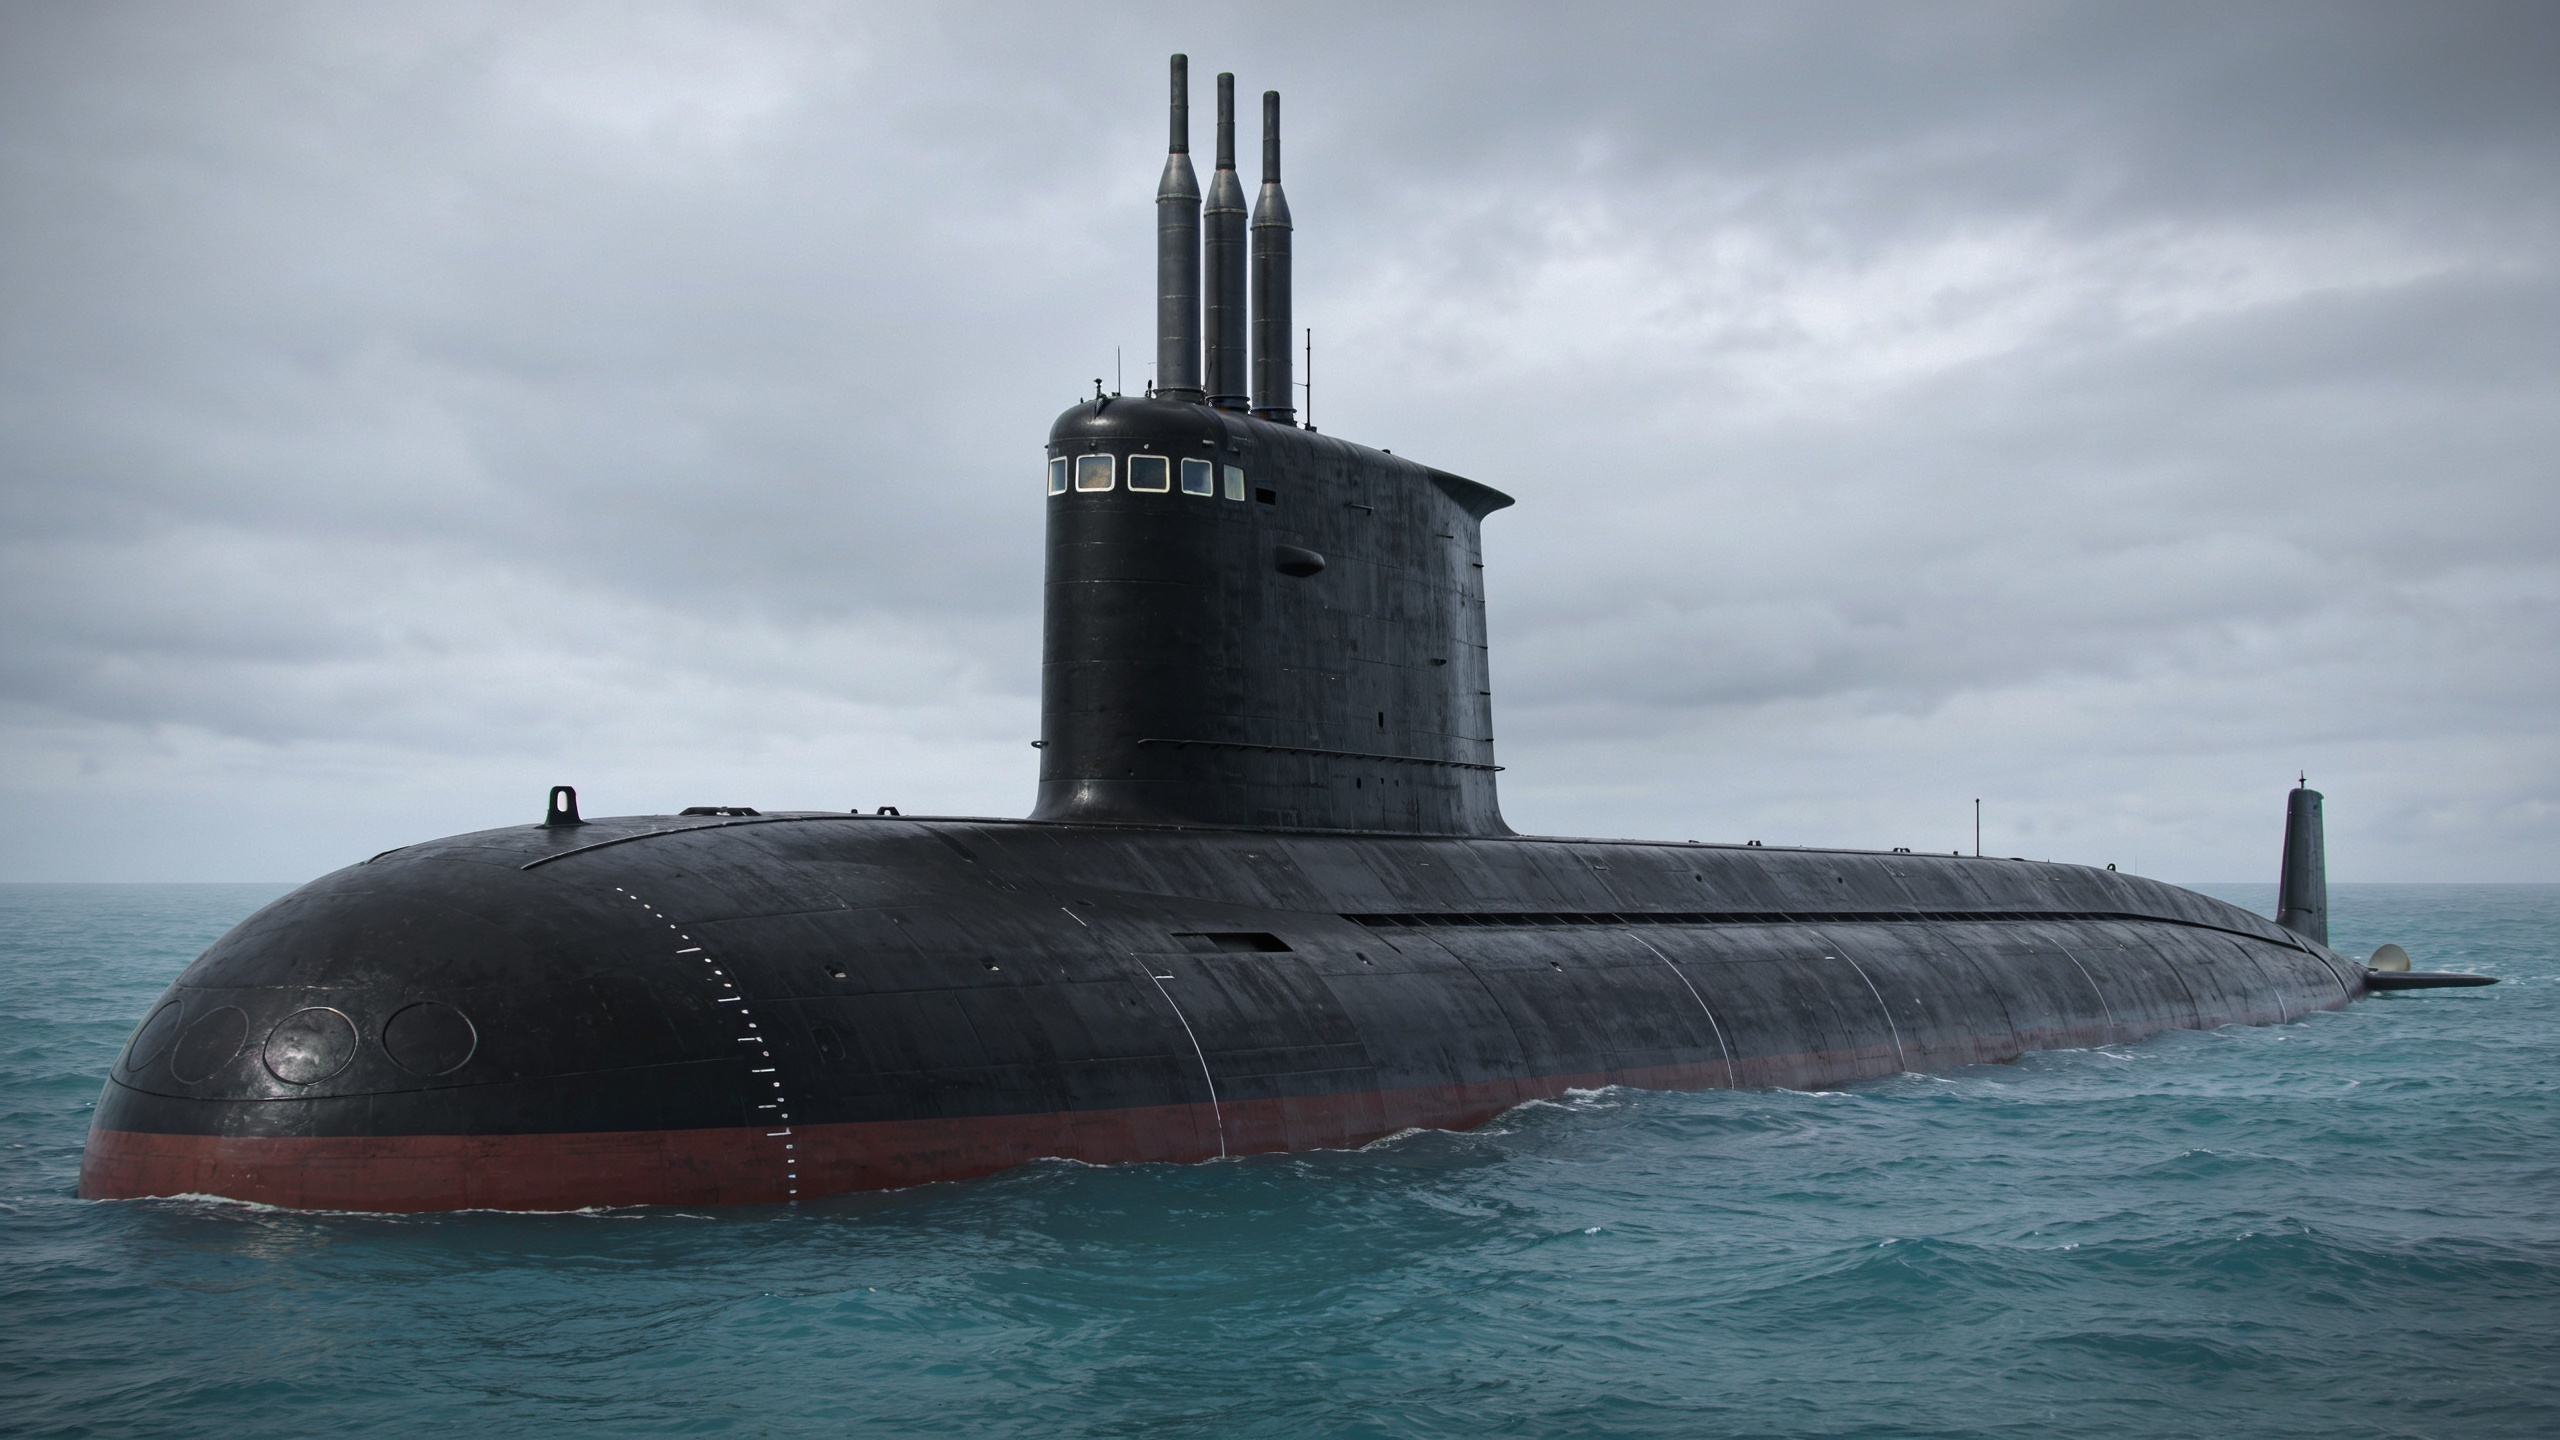
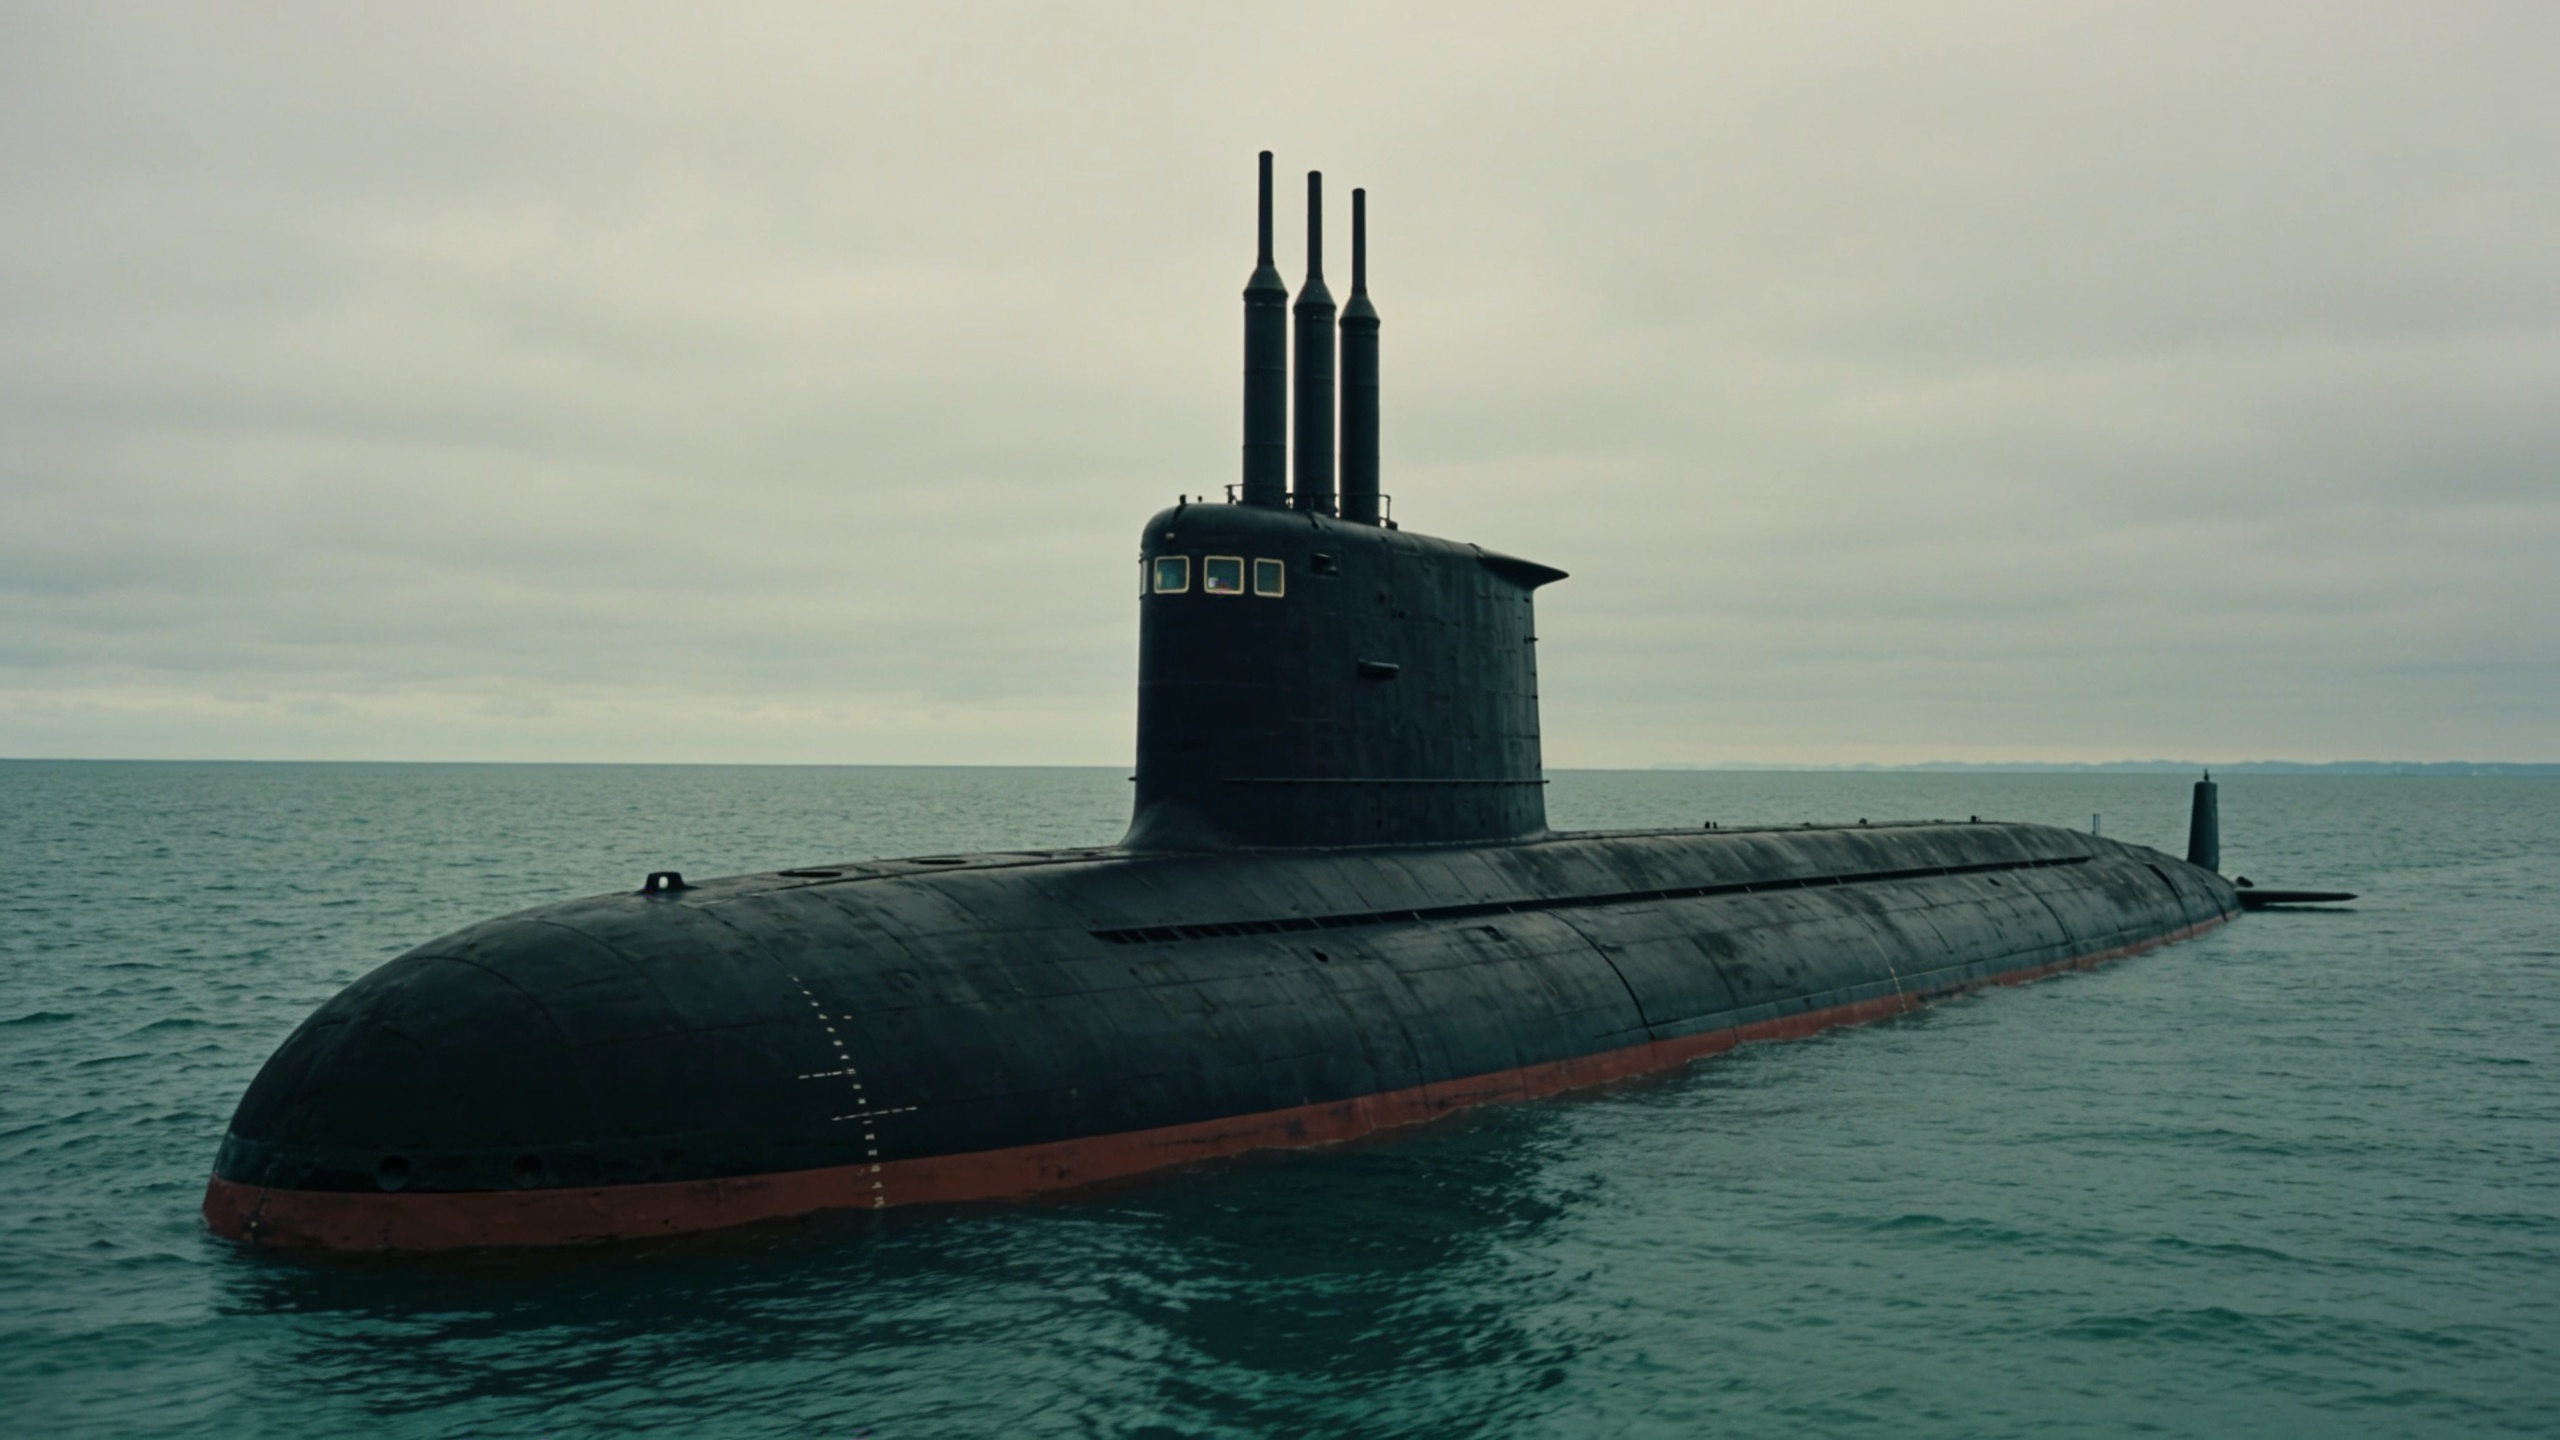
probe: lock por referencia-imagen (H1 escena / H2 multi-objeto) — COMPLETO
Probe exploratorio aislado (lab/probe_lock_imageref.py). NO toca m03/fase2a/fase1_5 ni ningún
módulo de prod; único acople = auth de fal (config.api). Ahora self-contained: genera AMBAS anclas
por t2i (sub + reactor), sin subir archivos externos (handoff v2, PASO 0-bis).

6 imágenes en lab/outputs/probe_lock_imageref/ + results.json (por imagen: id, endpoint, prompt,
image_urls_in, url_out, seed):
- PASO0.png      t2i  submarino (canon v2), seed 220231867 → url_sub_ancla
- PASO0bis.png   t2i  reactor (ficha, sin VM-A), seed 161532034 → url_reactor_ancla
- H1_edit1.png   edit reactor en lecho marino ártico   (ref=reactor)
- H1_edit2.png   edit reactor izado por grúa sobre barcaza (ref=reactor)
- H1_edit3.png   edit reactor oxidado en desguace nevado (ref=reactor)
- H2_multi.png   edit cutaway sub+reactor              (refs=[sub, reactor])

Lecturas de CC (Omar+Claude-chat juzgan mirando; esto es registro, no veredicto de diseño):
- §4 /edit availability: endpoint fal-ai/bytedance/seedream/v4.5/edit devolvió 200 en las 4 edits. OK.
- H1: gestalt del reactor FUERTEMENTE preservada en las 3 escenas — misma silueta, proporción H:D,
  domo, plating remachado, volante + gauge, pipework horizontal; solo cambian escena/luz/oxidación.
  Nota: edit2 (pedía "sellado dentro de un caparazón") mantuvo el vaso VISIBLE — el lock por ref
  resistió una instrucción que ocultaría el objeto (dato de diseño).
[…]

diff --git a/lab/probe_lock_imageref.py b/lab/probe_lock_imageref.py
@@ -147,6 +147,14 @@ P_SUB = ("An extreme wide shot of a Soviet Hotel-class ballistic missile submari
          "Cold overcast daylight, desaturated steel and teal sea, dark documentary, photorealistic, "
          "no text anywhere, 16:9.")
 
+P_REACTOR = ("A wide shot of a large vertical cylindrical steel pressurized-water naval reactor vessel, "
+             "tall — its height roughly twice its diameter — shallow domed top and rounded base, bare "
+             "unmarked riveted steel plating, insulated pipework wrapped horizontally around the body, "
+             "one manual valve wheel, one small analog pressure gauge with a plain unmarked white dial "
+             "face, no digital screens. Radioactive, scorched, streaked with rust, resting on a heavy "
+             "railway flatcar inside a cavernous Soviet shipyard, 1964, harsh overhead lights. "
+             "Desaturated steel, dark documentary, photorealistic, no signage, no text anywhere, 16:9.")
+
 P_H1_1 = ("This exact reactor vessel, now resting on the dark silted seabed of an arctic bay, partially "
           "covered in sediment, murky green water, deep underwater gloom. Keep the vessel's shape, "
           "proportions and riveted plating identical. Desaturated, photorealistic, 16:9.")
@@ -173,10 +181,11 @@ P_SMOKE = ("This exact submarine, now surfacing through drifting arctic ice fog 
 def main() -> int:
     ap = argparse.ArgumentParser(description="Probe lock por referencia-imagen (Seedream 4.5 /edit).")
     ap.add_argument("--reactor", default=None,
-                    help="Ancla del reactor (Image A): URL http(s) o path local. REQUERIDO para H1/H2.")
-    ap.add_argument("--paso0", action="store_true", help="Solo PASO 0 (t2i del submarino).")
+                    help="OVERRIDE opcional de la ancla del reactor (URL http(s) o path local). "
+                         "Por defecto el probe la GENERA por t2i (PASO 0-bis).")
+    ap.add_argument("--paso0", action="store_true", help="Solo las anclas t2i (sub + reactor), sin /edit.")
     ap.add_argument("--smoke-edit", action="store_true",
-                    help="PASO 0 + smoke-test de /edit (usa el sub como ref throwaway; NO es H1).")
+                    help="Solo sub + smoke-test de /edit (sub como ref throwaway; NO corre H1/H2).")
     args = ap.parse_args()
 
     OUT_DIR.mkdir(parents=True, exist_ok=True)
@@ -192,7 +201,7 @@ def main() -> int:
     _flush(results)
     url_sub_ancla = sub["url_out"]
 
-    # ── smoke-test de /edit (opcional; answers §4 antes de tener Image A) ──
+    # ── smoke-test de /edit (opcional, aislado) ──
     if args.smoke_edit and not args.reactor:
         print("\n[SMOKE] /edit availability con el sub como ref throwaway (NO es H1)...")
         sm = edit(P_SMOKE, [url_sub_ancla])
@@ -201,19 +210,30 @@ def main() -> int:
                 image_urls_in=[url_sub_ancla], out=sm, filename="SMOKE_edit_sub.png",
                 note="smoke-test de /edit sobre el SUB (no el reactor). Confirma endpoint + gestalt del sub.")
         _flush(results)
-
-    if args.paso0 or (args.smoke_edit and not args.reactor):
-        print(f"\n✅ Parcial OK — sin --reactor no se corren H1/H2. results.json en {RESULTS_JSON}")
+        print(f"\n✅ Smoke OK — results.json en {RESULTS_JSON}")
         return 0
 
-    # ── H1 + H2 requieren la ancla del reactor (Image A) ──
-    if not args.reactor:
-        print("\n⛔ FALTA --reactor (Image A del reactor). H1/H2 no pueden correr.")
-        print("   Pasá: --reactor <path|url>  (o corré --smoke-edit para solo probar /edit).")
-        return 2
+    # ── PASO 0-bis — foto-ancla del REACTOR (t2i, o override --reactor) ──
+    if args.reactor:
+        print(f"\n[PASO 0-bis] override: usando ancla del reactor provista ({args.reactor[:70]})...")
+        reactor_ref = _to_ref(args.reactor)
+        reactor_ref_label = args.reactor
+    else:
+        print("\n[PASO 0-bis] t2i reactor (ficha, sin nombre VM-A)...")
+        reactor = t2i(P_REACTOR)
+        _download(reactor["url_out"], OUT_DIR / "PASO0bis.png")
+        _record(results, id_="PASO0bis", endpoint="t2i", prompt=P_REACTOR,
+                image_urls_in=[], out=reactor, filename="PASO0bis.png",
+                note="ancla del reactor generada por el propio probe; url_out = url_reactor_ancla para H1/H2")
+        _flush(results)
+        reactor_ref = reactor["url_out"]
+        reactor_ref_label = reactor["url_out"]
 
-    reactor_ref = _to_ref(args.reactor)
-    print(f"\n[H1] mismo reactor, 3 escenas (/edit, ref = {args.reactor[:70]})...")
+    if args.paso0:
+        print(f"\n✅ Anclas OK (sin /edit) — results.json en {RESULTS_JSON}")
+        return 0
+
+    print(f"\n[H1] mismo reactor, 3 escenas (/edit, ref = {reactor_ref_label[:70]})...")
     for tag, prompt, fname in (
         ("H1_edit1", P_H1_1, "H1_edit1.png"),
         ("H1_edit2", P_H1_2, "H1_edit2.png"),
@@ -222,7 +242,7 @@ def main() -> int:
         out = edit(prompt, [reactor_ref])
         _download(out["url_out"], OUT_DIR / fname)
         _record(results, id_=tag, endpoint="edit", prompt=prompt,
-                image_urls_in=[args.reactor], out=out, filename=fname,
+                image_urls_in=[reactor_ref_label], out=out, filename=fname,
                 note="H1: ¿la gestalt del reactor sobrevive el cambio de escena?")
         _flush(results)
 
@@ -230,11 +250,11 @@ def main() -> int:
     h2 = edit(P_H2, [url_sub_ancla, reactor_ref])
     _download(h2["url_out"], OUT_DIR / "H2_multi.png")
     _record(results, id_="H2_multi", endpoint="edit", prompt=P_H2,
-            image_urls_in=[url_sub_ancla, args.reactor], out=h2, filename="H2_multi.png",
+            image_urls_in=[url_sub_ancla, reactor_ref_label], out=h2, filename="H2_multi.png",
             note="H2: ¿ambos reconocibles y el reactor ADENTRO del sub?")
     _flush(results)
 
-    print(f"\n✅ Probe COMPLETO — 5 imágenes + results.json en {RESULTS_JSON}")
+    print(f"\n✅ Probe COMPLETO — anclas (sub+reactor) + H1×3 + H2 + results.json en {RESULTS_JSON}")
     return 0
 
 